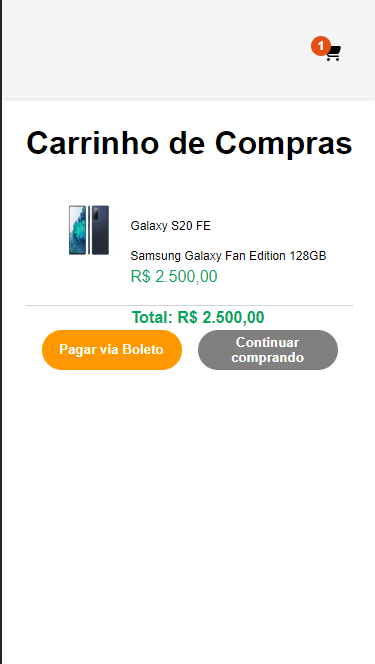
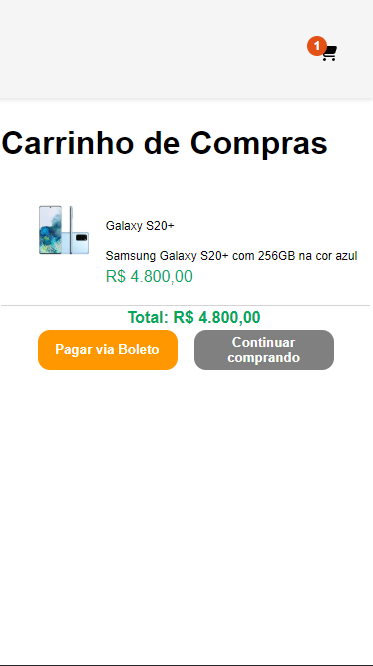
fix_image

diff --git a/src/presentation/Pages/CheckOutPage/styles.ts b/src/presentation/Pages/CheckOutPage/styles.ts
@@ -34,7 +34,7 @@ export const Container = styled.div`
     border: none;
     height: 40px;
     width: 140px;
-    border-radius: 20px;
+    border-radius: 12px;
     cursor: pointer;
     background: grey;
     color: #ffffff;
@@ -44,7 +44,7 @@ export const Container = styled.div`
     border: none;
     height: 40px;
     width: 140px;
-    border-radius: 20px;
+    border-radius: 12px;
     background-color: #ff9800;
     color: #ffffff;
     font-weight: bold;
@@ -59,24 +59,6 @@ export const Container = styled.div`
       padding: 1rem 0.8rem 1rem 2.4rem;
       position: relative;
       border-bottom: 1px solid lightgrey;
-    }
-    .keepShopping {
-      border: none;
-      height: 40px;
-      width: 140px;
-      border-radius: 20px;
-      background: grey;
-      color: #ffffff;
-      font-weight: bold;
-    }
-    .finishShop {
-      border: none;
-      height: 40px;
-      width: 140px;
-      border-radius: 20px;
-      background-color: #ff9800;
-      color: #ffffff;
-      font-weight: bold;
     }
   }
 `
